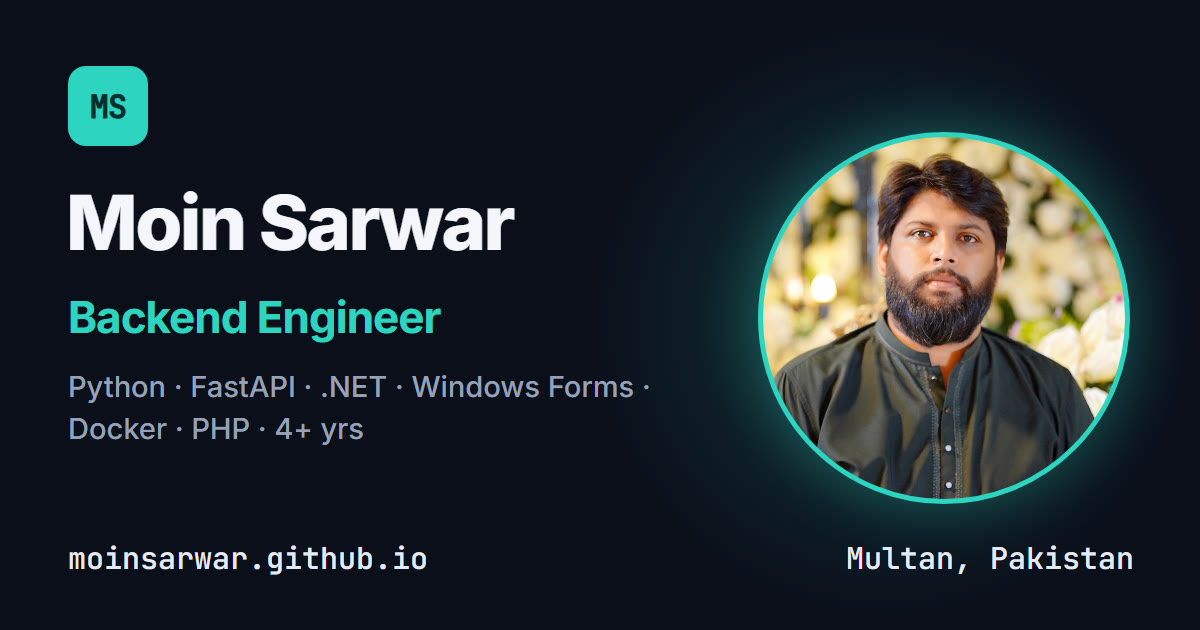
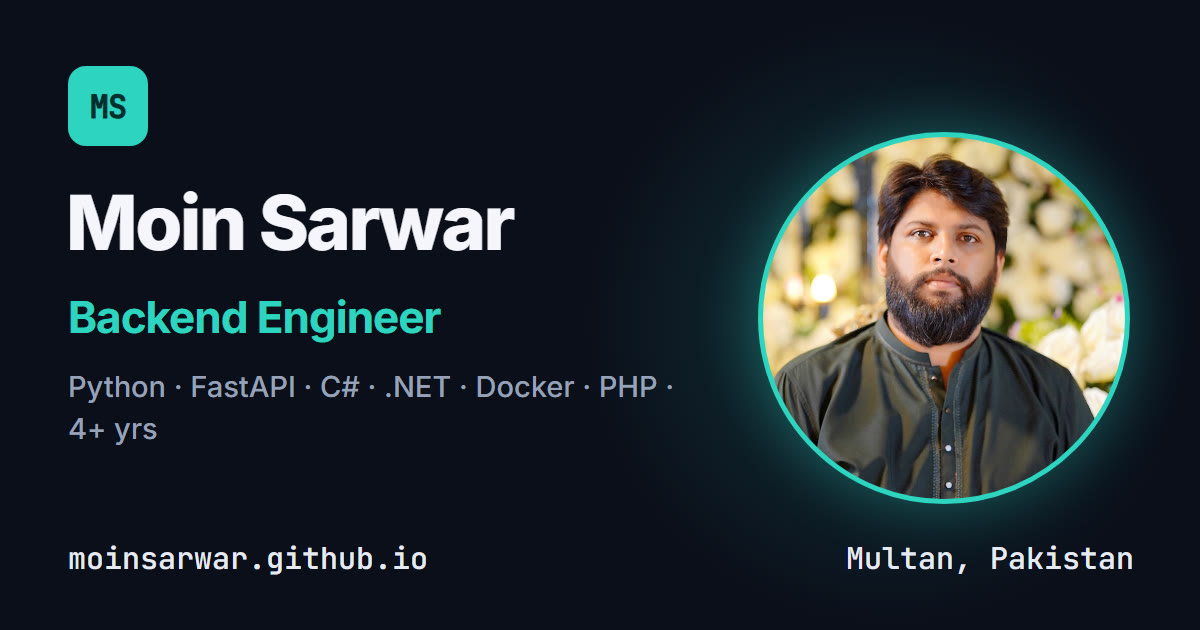
Update share preview: add C# to image and description

Changed region(s): [[0.2467, 0.573, 0.555, 0.6333], [0.0617, 0.6635, 0.3083, 0.7238]]

diff --git a/index.html b/index.html
@@ -16,7 +16,7 @@
     <meta property="og:type" content="profile">
     <meta property="og:site_name" content="Moin Sarwar">
     <meta property="og:title" content="Moin Sarwar — Backend Engineer">
-    <meta property="og:description" content="Backend engineer building APIs, payments, SSO and integrations for fintech, healthcare and enterprise systems.">
+    <meta property="og:description" content="Backend engineer with 4+ years building APIs in Python (FastAPI), C# (.NET) &amp; PHP. Currently at Fitwell Hub.">
     <meta property="og:url" content="https://moinsarwar.github.io/">
     <meta property="og:locale" content="en_US">
     <meta property="og:image" content="https://moinsarwar.github.io/og-image.jpg">
@@ -29,7 +29,7 @@
     <meta property="profile:last_name" content="Sarwar">
     <meta name="twitter:card" content="summary_large_image">
     <meta name="twitter:title" content="Moin Sarwar — Backend Engineer">
-    <meta name="twitter:description" content="Backend engineer building APIs, payments, SSO and integrations for fintech, healthcare and enterprise systems.">
+    <meta name="twitter:description" content="Backend engineer with 4+ years building APIs in Python (FastAPI), C# (.NET) &amp; PHP. Currently at Fitwell Hub.">
     <meta name="twitter:image" content="https://moinsarwar.github.io/og-image.jpg">
     <meta name="twitter:image:alt" content="Moin Sarwar — Backend Engineer">
 
